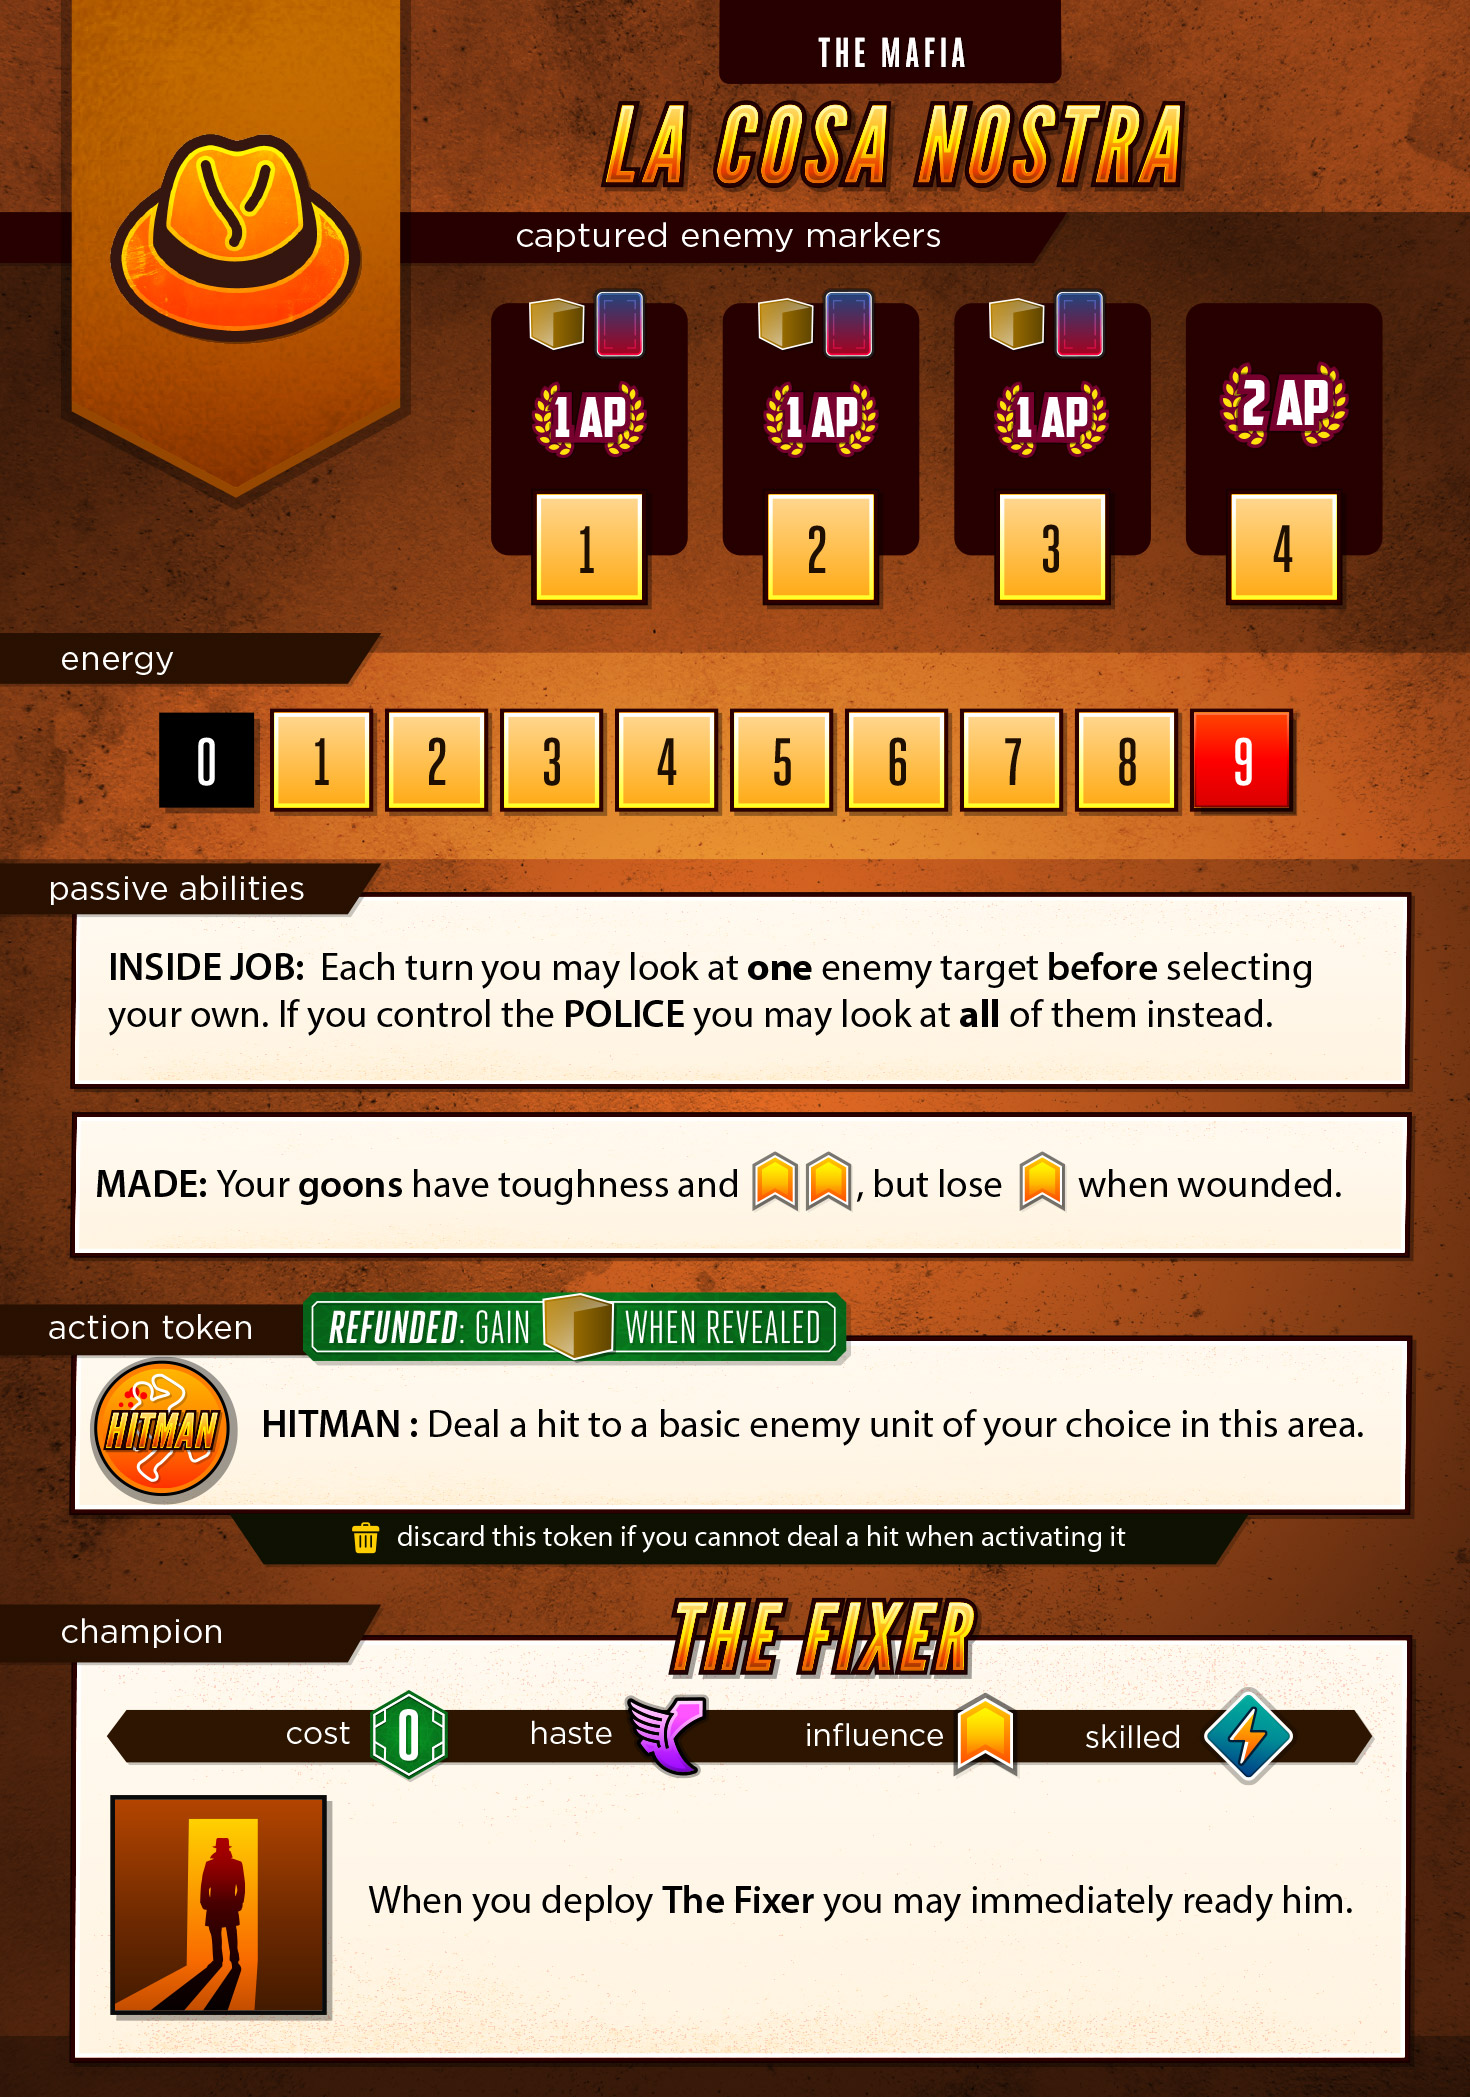
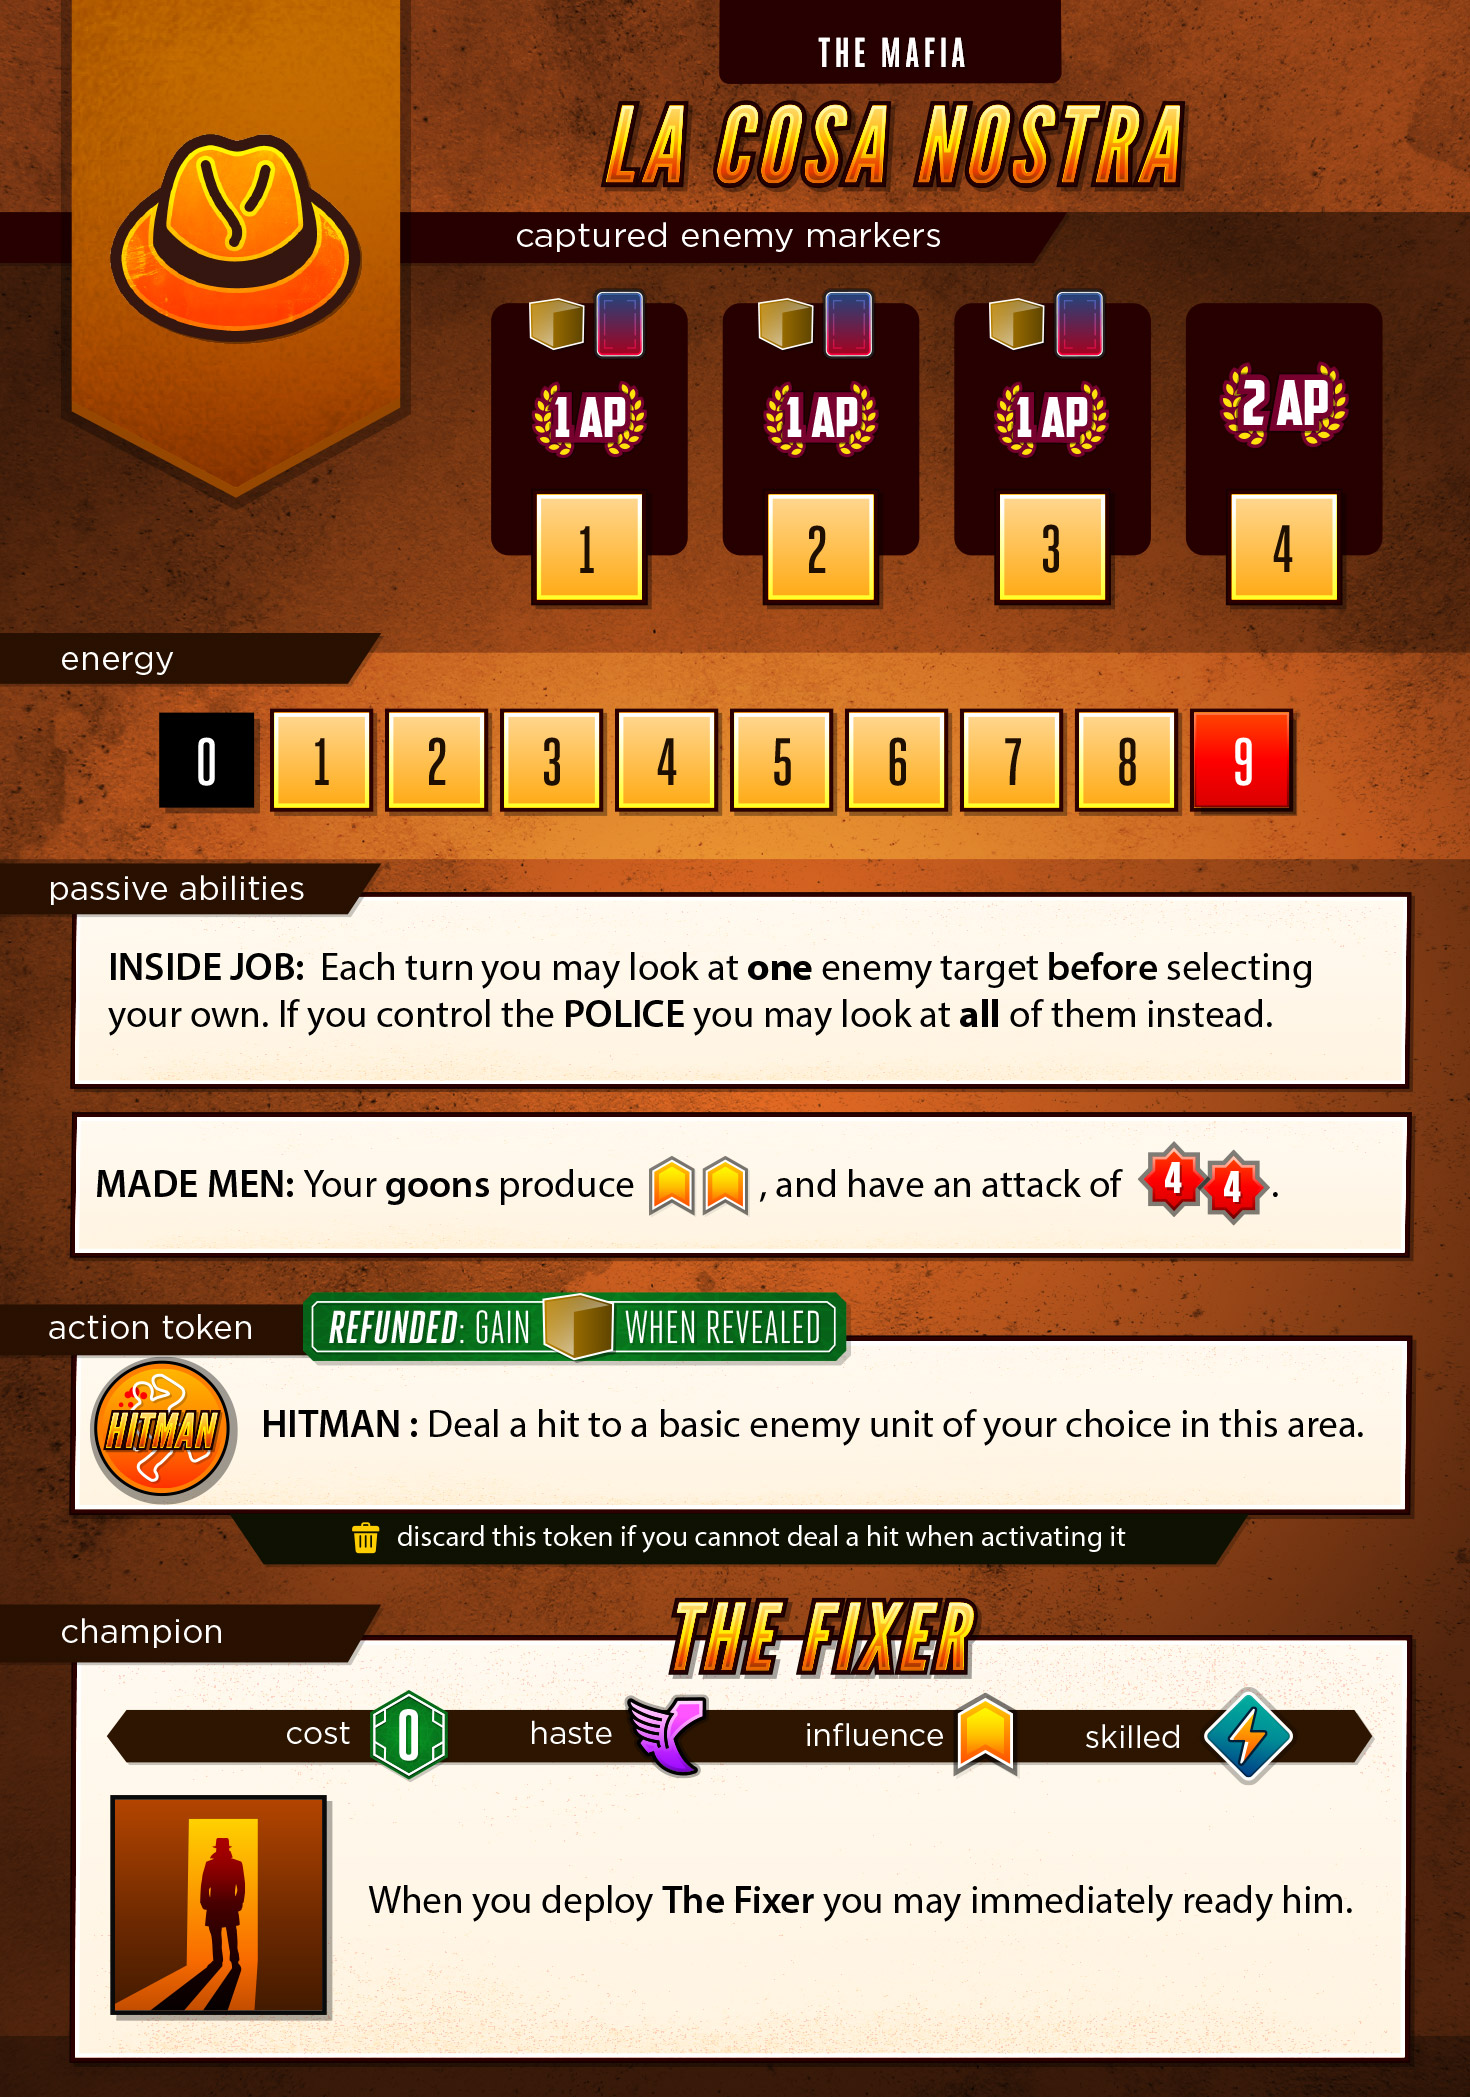
MAFIA: remove toughness from goons

Changed region(s): [[0.1224, 0.5269, 0.9184, 0.5889]]

diff --git a/server/classes/factions/Mafia.js b/server/classes/factions/Mafia.js
@@ -36,11 +36,14 @@ class Mafia extends Faction {
 
         // units
         this.units['talent'].count = 2;
-        this.units['goon'].count = 4;
+        this.units['goon'].count = 5;
         this.units['goon'].data.influence = 2;
-        this.units['goon'].data.toughness = true;
-        this.units['goon'].data.flipped = false;
-        this.units['goon'].data.onWounded = 'onGoonWounded';
+        this.units['goon'].data.attack = [4,4];
+        this.units['mole'].count = 4;
+        this.units['patsy'].count = 6;
+        //this.units['goon'].data.toughness = true;
+        //this.units['goon'].data.flipped = false;
+        //this.units['goon'].data.onWounded = 'onGoonWounded';
 
         this.units['champion'] = {
             count: 1,
@@ -107,6 +110,7 @@ class Mafia extends Faction {
 
     }
 
+    /*
     onGoonWounded( unit ){
         unit.influence = 1;
     }
@@ -115,6 +119,7 @@ class Mafia extends Faction {
         unit.influence = 2;
         unit.flipped = false;
     }
+    */
 
     /**
      * Reset the faction we are spying on end of turn trigger
